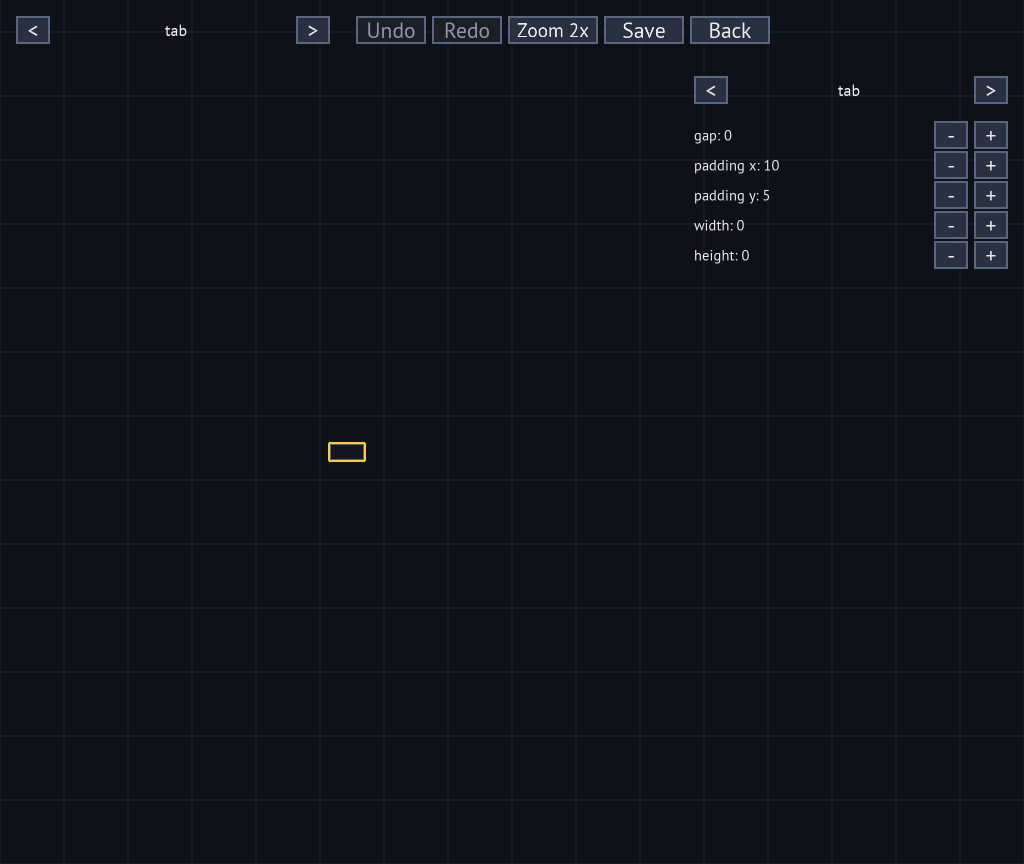
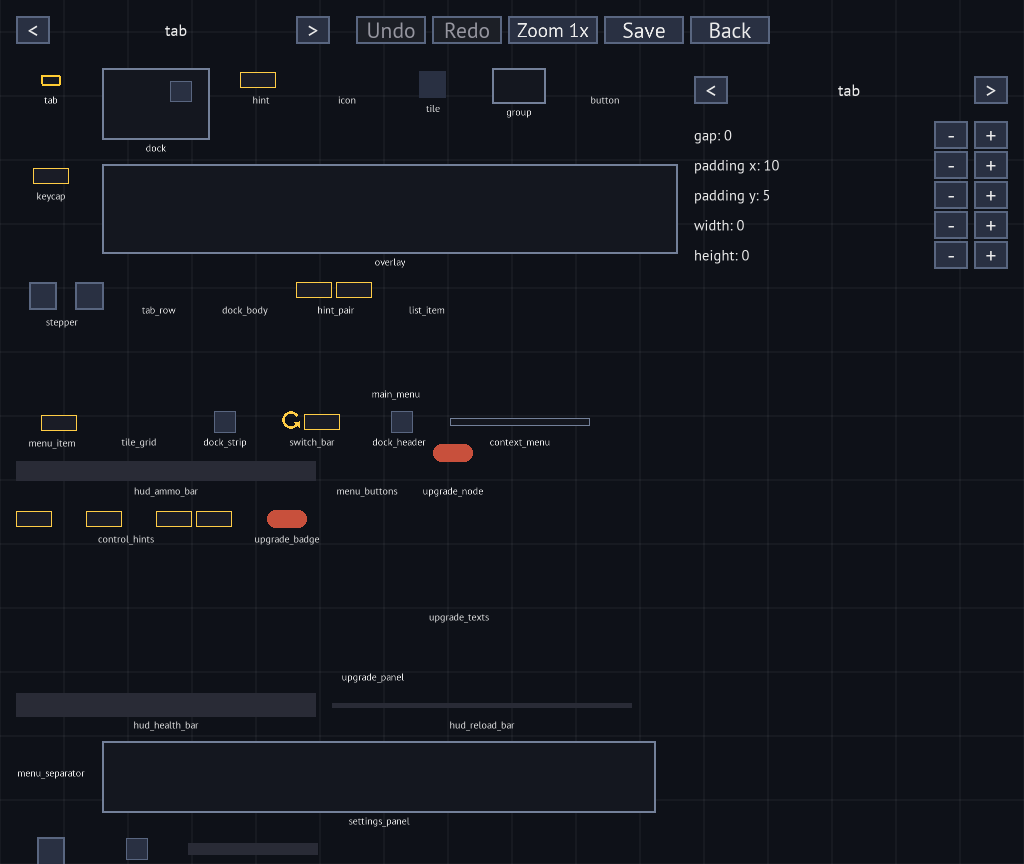
Widget editor shows all widget files on one canvas; click picks a widget or one of its parts

diff --git a/TanksClone/Classes/scenes/WidgetEditorScene.cpp b/TanksClone/Classes/scenes/WidgetEditorScene.cpp
@@ -1,5 +1,6 @@
 #include "scenes/WidgetEditorScene.h"
 
+#include <algorithm>
 #include <filesystem>
 #include <fstream>
 
@@ -53,6 +54,14 @@ bool WidgetEditorScene::init()
 	}
 	addChild(widgets::CreateScreenBackground());
 	Files = config_refs::ListGroupEntries(ids::config_groups::Widgets);
+	for ( const config_refs::GroupEntry& Entry : Files )
+	{
+		std::vector<std::string> Missing;
+		Defs.push_back(viewmodel::WidgetDef::FromConfig(config_refs::GetConfig(model::ResourceId(Entry.Id)), NameOfFile(Entry), Missing));
+	}
+	auto* const Listener = cocos2d::EventListenerTouchOneByOne::create();
+	Listener->onTouchBegan = [this](cocos2d::Touch* const InTouch, cocos2d::Event*) { return PickAt(InTouch->getLocation()); };
+	_eventDispatcher->addEventListenerWithSceneGraphPriority(Listener, this);
 	widgets::AddBackKeyHandler(this, []() { SwitchScene(MenuScene::CreateScene()); });
 	if ( !Files.empty() )
 	{
@@ -65,16 +74,25 @@ void WidgetEditorScene::OpenWidget(const int InIndex)
 {
 	const int Count = static_cast<int>(Files.size());
 	FileIndex = ((InIndex % Count) + Count) % Count;
-	const config_refs::GroupEntry& Entry = Files[static_cast<size_t>(FileIndex)];
-	std::vector<std::string> Missing;
-	Session = std::make_unique<viewmodel::WidgetEditSession>(
-		viewmodel::WidgetDef::FromConfig(config_refs::GetConfig(model::ResourceId(Entry.Id)), NameOfFile(Entry), Missing));
+	Session = std::make_unique<viewmodel::WidgetEditSession>(Defs[static_cast<size_t>(FileIndex)]);
 	Rebuild();
 }
 
 void WidgetEditorScene::Rebuild()
 {
-	for ( cocos2d::Node* const Old : { static_cast<cocos2d::Node*>(Preview), SidePanel, TopBar } )
+	if ( Session && FileIndex < static_cast<int>(Defs.size()) )
+	{
+		Defs[static_cast<size_t>(FileIndex)] = Session->GetDef();
+	}
+	for ( LayoutWidget* const Old : Previews )
+	{
+		if ( Old )
+		{
+			Old->removeFromParent();
+		}
+	}
+	Previews.clear();
+	for ( cocos2d::Node* const Old : { SidePanel, TopBar } )
 	{
 		if ( Old )
 		{
@@ -90,17 +108,86 @@ void WidgetEditorScene::Rebuild()
 
 void WidgetEditorScene::BuildPreview()
 {
-	Preview = LayoutWidget::Create(Session->GetDef());
-	if ( !Preview )
+	const float Left = Margin;
+	const float Right = DesignWidth - SidePanelWidth - Margin;
+	float X = Left;
+	float Y = DesignHeight - 2 * Margin - ButtonHeight - 8.0f;
+	float RowTall = 0.0f;
+	Preview = nullptr;
+	for ( size_t Index = 0; Index < Defs.size(); ++Index )
 	{
-		return;
+		const bool bActive = static_cast<int>(Index) == FileIndex;
+		LayoutWidget* const Current = LayoutWidget::Create(bActive ? Session->GetDef() : Defs[Index]);
+		Previews.push_back(Current);
+		if ( !Current )
+		{
+			continue;
+		}
+		const cocos2d::Size Size(std::max(Current->getContentSize().width * Zoom, 70.0f), std::max(Current->getContentSize().height * Zoom, 24.0f));
+		if ( X > Left && X + Size.width > Right )
+		{
+			X = Left;
+			Y -= RowTall + 24.0f;
+			RowTall = 0.0f;
+		}
+		Current->setScale(static_cast<float>(Zoom));
+		Current->setPosition(X + Size.width / 2, Y - Size.height / 2);
+		addChild(Current, 1);
+		auto* const Name = widgets::CreateLabel(Defs[Index].Id, 11.0f);
+		Name->setPosition(X + Size.width / 2, Y - Size.height - 8.0f);
+		Current->getParent()->addChild(Name, 1);
+		Previews.back() = Current;
+		if ( bActive )
+		{
+			Preview = Current;
+		}
+		X += Size.width + 16.0f;
+		RowTall = std::max(RowTall, Size.height);
 	}
-	Preview->setScale(static_cast<float>(Zoom));
-	Preview->setPosition((DesignWidth - SidePanelWidth) / 2, DesignHeight / 2 - 20.0f);
-	addChild(Preview, 1);
-	Selection = cocos2d::DrawNode::create();
-	Preview->addChild(Selection, 100000);
-	DrawSelection();
+	if ( Preview )
+	{
+		Selection = cocos2d::DrawNode::create();
+		Preview->addChild(Selection, 100000);
+		DrawSelection();
+	}
+}
+
+bool WidgetEditorScene::PickAt(const cocos2d::Vec2& InPoint)
+{
+	for ( size_t Index = 0; Index < Previews.size(); ++Index )
+	{
+		LayoutWidget* const Current = Previews[Index];
+		if ( !Current )
+		{
+			continue;
+		}
+		const cocos2d::Vec2 Local = Current->convertToNodeSpace(InPoint);
+		const cocos2d::Size Size = Current->getContentSize();
+		if ( !cocos2d::Rect(-Size.width / 2, -Size.height / 2, Size.width, Size.height).containsPoint(Local) )
+		{
+			continue;
+		}
+		if ( static_cast<int>(Index) != FileIndex )
+		{
+			OpenWidget(static_cast<int>(Index));
+			return true;
+		}
+		const std::vector<viewmodel::WidgetChildDef>& Children = Session->GetDef().Children;
+		int Hit = viewmodel::WidgetEditSession::WidgetSelected;
+		for ( int Child = static_cast<int>(Children.size()) - 1; Child >= 0; --Child )
+		{
+			const cocos2d::Node* const Part = Current->FindPart(Children[static_cast<size_t>(Child)].Id);
+			if ( Part && Part->getBoundingBox().containsPoint(Local) )
+			{
+				Hit = Child;
+				break;
+			}
+		}
+		Session->Select(Hit);
+		Rebuild();
+		return true;
+	}
+	return false;
 }
 
 void WidgetEditorScene::DrawSelection()

diff --git a/TanksClone/Classes/scenes/WidgetEditorScene.h b/TanksClone/Classes/scenes/WidgetEditorScene.h
@@ -16,7 +16,7 @@ namespace tanks::view::cocos
 class LayoutWidget;
 
 /**
- * The widget editor (debug builds only): shows a widget file live, selects its parts, steps their numbers up and down
+ * The widget editor (debug builds only): shows every widget file on one canvas, click picks a widget or one of its parts, selects its parts, steps their numbers up and down
  * with undo and redo, and saves the file back into the source tree. The numbers and the file text live in
  * viewmodel::WidgetEditSession; this scene only displays them. Names are shown as written, the tool is not translated.
  */
@@ -33,6 +33,7 @@ private:
 	void OpenWidget(int InIndex);
 	void Rebuild();
 	void BuildPreview();
+	bool PickAt(const cocos2d::Vec2& InPoint);
 	void BuildSidePanel();
 	void BuildTopBar();
 	void DrawSelection();
@@ -41,8 +42,10 @@ private:
 
 	std::vector<config_refs::GroupEntry> Files;
 	int FileIndex = 0;
-	int Zoom = 2;
+	int Zoom = 1;
 	std::unique_ptr<viewmodel::WidgetEditSession> Session;
+	std::vector<viewmodel::WidgetDef> Defs;
+	std::vector<LayoutWidget*> Previews;
 	LayoutWidget* Preview = nullptr;
 	cocos2d::Node* SidePanel = nullptr;
 	cocos2d::Node* TopBar = nullptr;
